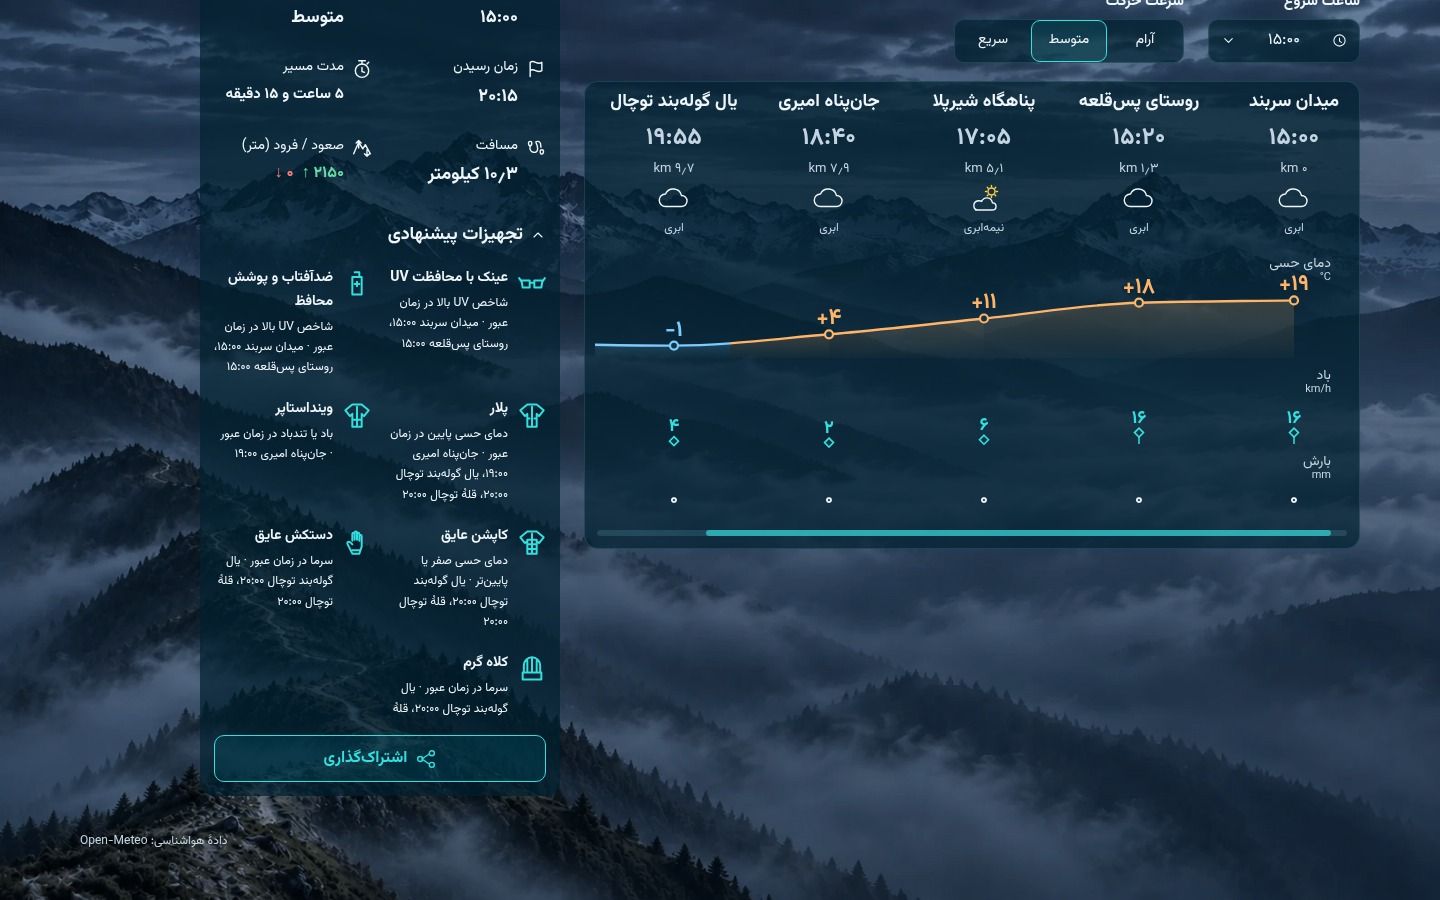
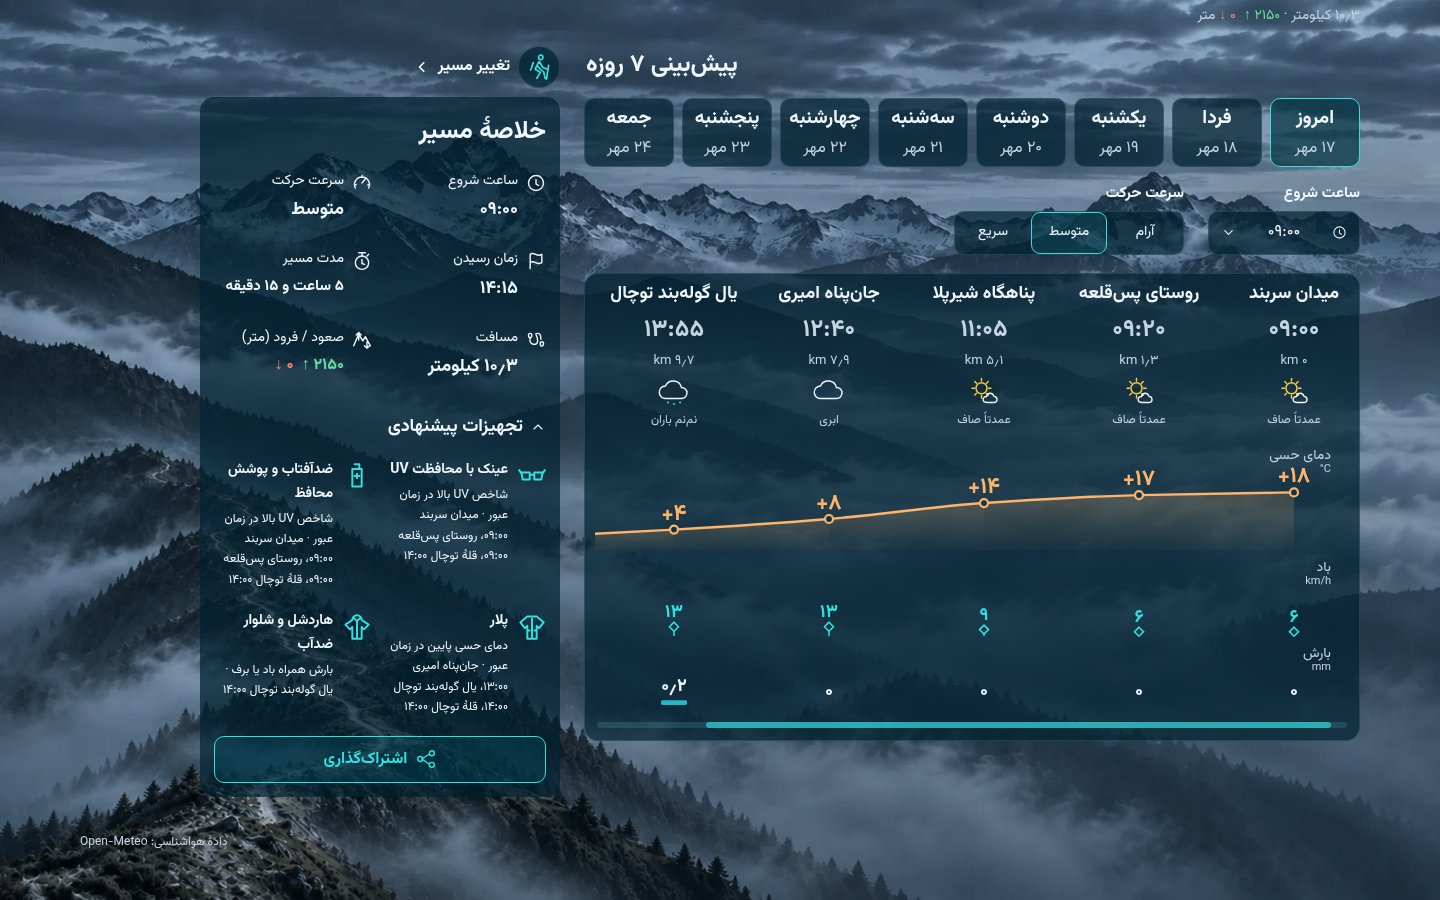
fix(web): harmonize dark route background with destination tones

diff --git a/apps/web/src/styles/new-design/landscape.css b/apps/web/src/styles/new-design/landscape.css
@@ -13,7 +13,9 @@ main.route-page {
 }
 :root[data-theme="dark"] main.route-page {
   --landscape-photo: url('/new-design/backgrounds/route-desktop-dark.webp');
-  --landscape-tone: saturate(.72) brightness(1.12);
+  /* The route source is darker and bluer than the destination source.
+     Balance the photo alone; shared cards and foreground colors stay intact. */
+  --landscape-tone: saturate(.5) hue-rotate(-5deg) brightness(1.6);
 }
 .landscape {
   position: fixed;

diff --git a/design/system/design-system.md b/design/system/design-system.md
@@ -10,6 +10,7 @@
 - متن، برند، هشدار، مرز، انتخاب و سطح از `apps/web/src/styles/new-design/base.css` میآیند. کارت روشن `rgba(247,253,254,.72)` و تاریک `rgba(2,33,49,.70)` است؛ کارت اصلی blur ندارد. منو و dialog نقش جدا دارند و قواعد قبلیشان حفظ میشود.
 - پوشش عکس روشن `rgba(232,242,245,.05)` و تاریک `rgba(1,21,37,.10)` است. تصویر مسیر و فهرست مسیرها در هر دو تم متفاوت است؛ خانوادهٔ دیگر برای خانه، مقصد، فهرست مقصدها و اشتراک مشترک است.
 - `landscape.css` تنها مرجع عکس، تناژ و برش است: یک لایهٔ ثابت بهاندازهٔ viewport، `cover` و `center top`. عکس متناسب با viewport بزرگ میشود، نه ارتفاع محتوا؛ با جزئیات تخصصی، تجهیزات یا فهرست بلند قطع، تکرار یا کشیده نمیشود. تناژ خانوادهٔ مسیر فقط با CSS هماهنگ میشود؛ bytes تصاویر اصلی دستنخوردهاند.
+- در صفحهٔ مسیر، عکس تاریک با `saturate(.5) hue-rotate(-5deg) brightness(1.6)` نمایش داده میشود تا آبیِ شدید و تیرگی فایل اصلی به تناژ مقصد نزدیک شود؛ این تنظیم در موبایل و دسکتاپ فقط روی لایهٔ عکس اعمال میشود. تم روشن، کارتها و رنگ نوشتهها تغییر نمیکنند.
 - کارت اصلی ۱۴px و کنترل ۱۰px radius دارد. فونت، اندازه، وزن، عرض هدر اختصاصی مسیر، زمان رسیدن و چیدمانهای تأییدشده تغییر نمیکنند.
 - `shared.css` نقشهای مشترک و `features/week/agreed.css` اندازهها و چیدمان تأییدشدهٔ هفته را نگه میدارند. پیشبینی نباید `--panel` یا پوشش عکس مستقل تعریف کند.
 - ارتفاع ردیف نام و وضعیت هوای نقاط مسیر متناسب با بلندترین محتواست و شرح وضعیت هوا در ستونها همتراز میشود؛ فاصله تا ردیف دمای حسی در موبایل ۱۲px و دسکتاپ ۱۶px است. نام یا شرح طولانی نباید با نمودار تداخل پیدا کند.
